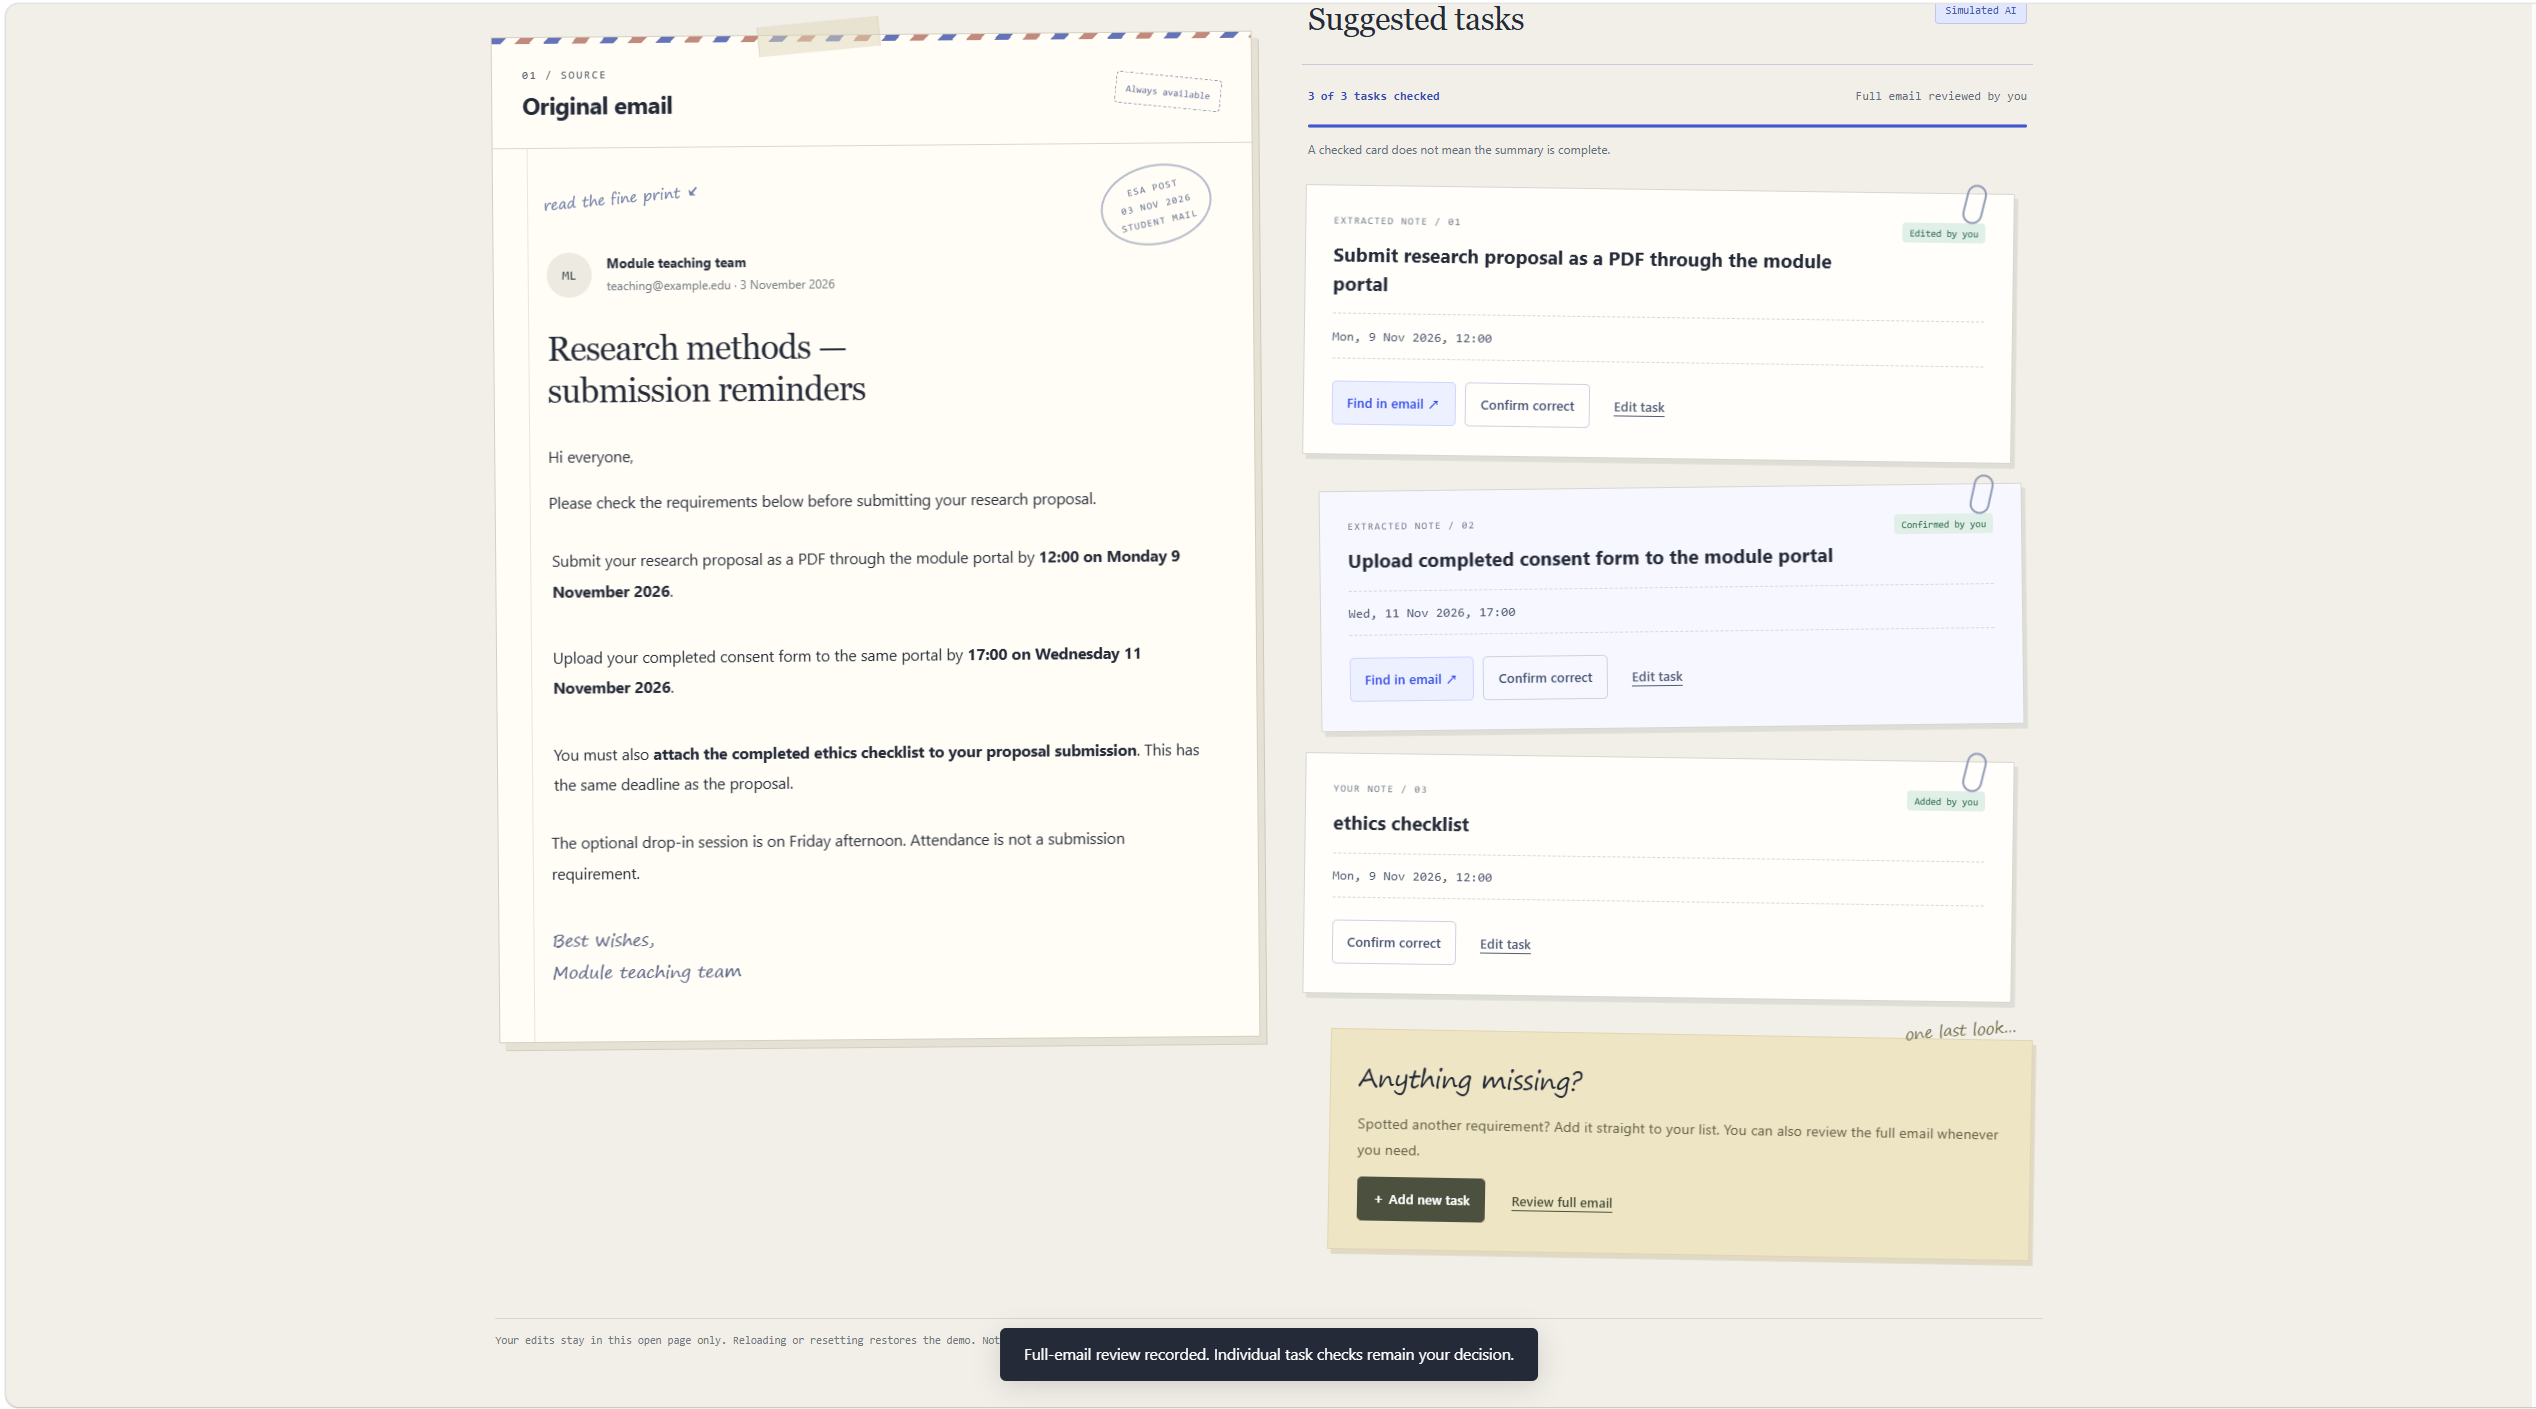
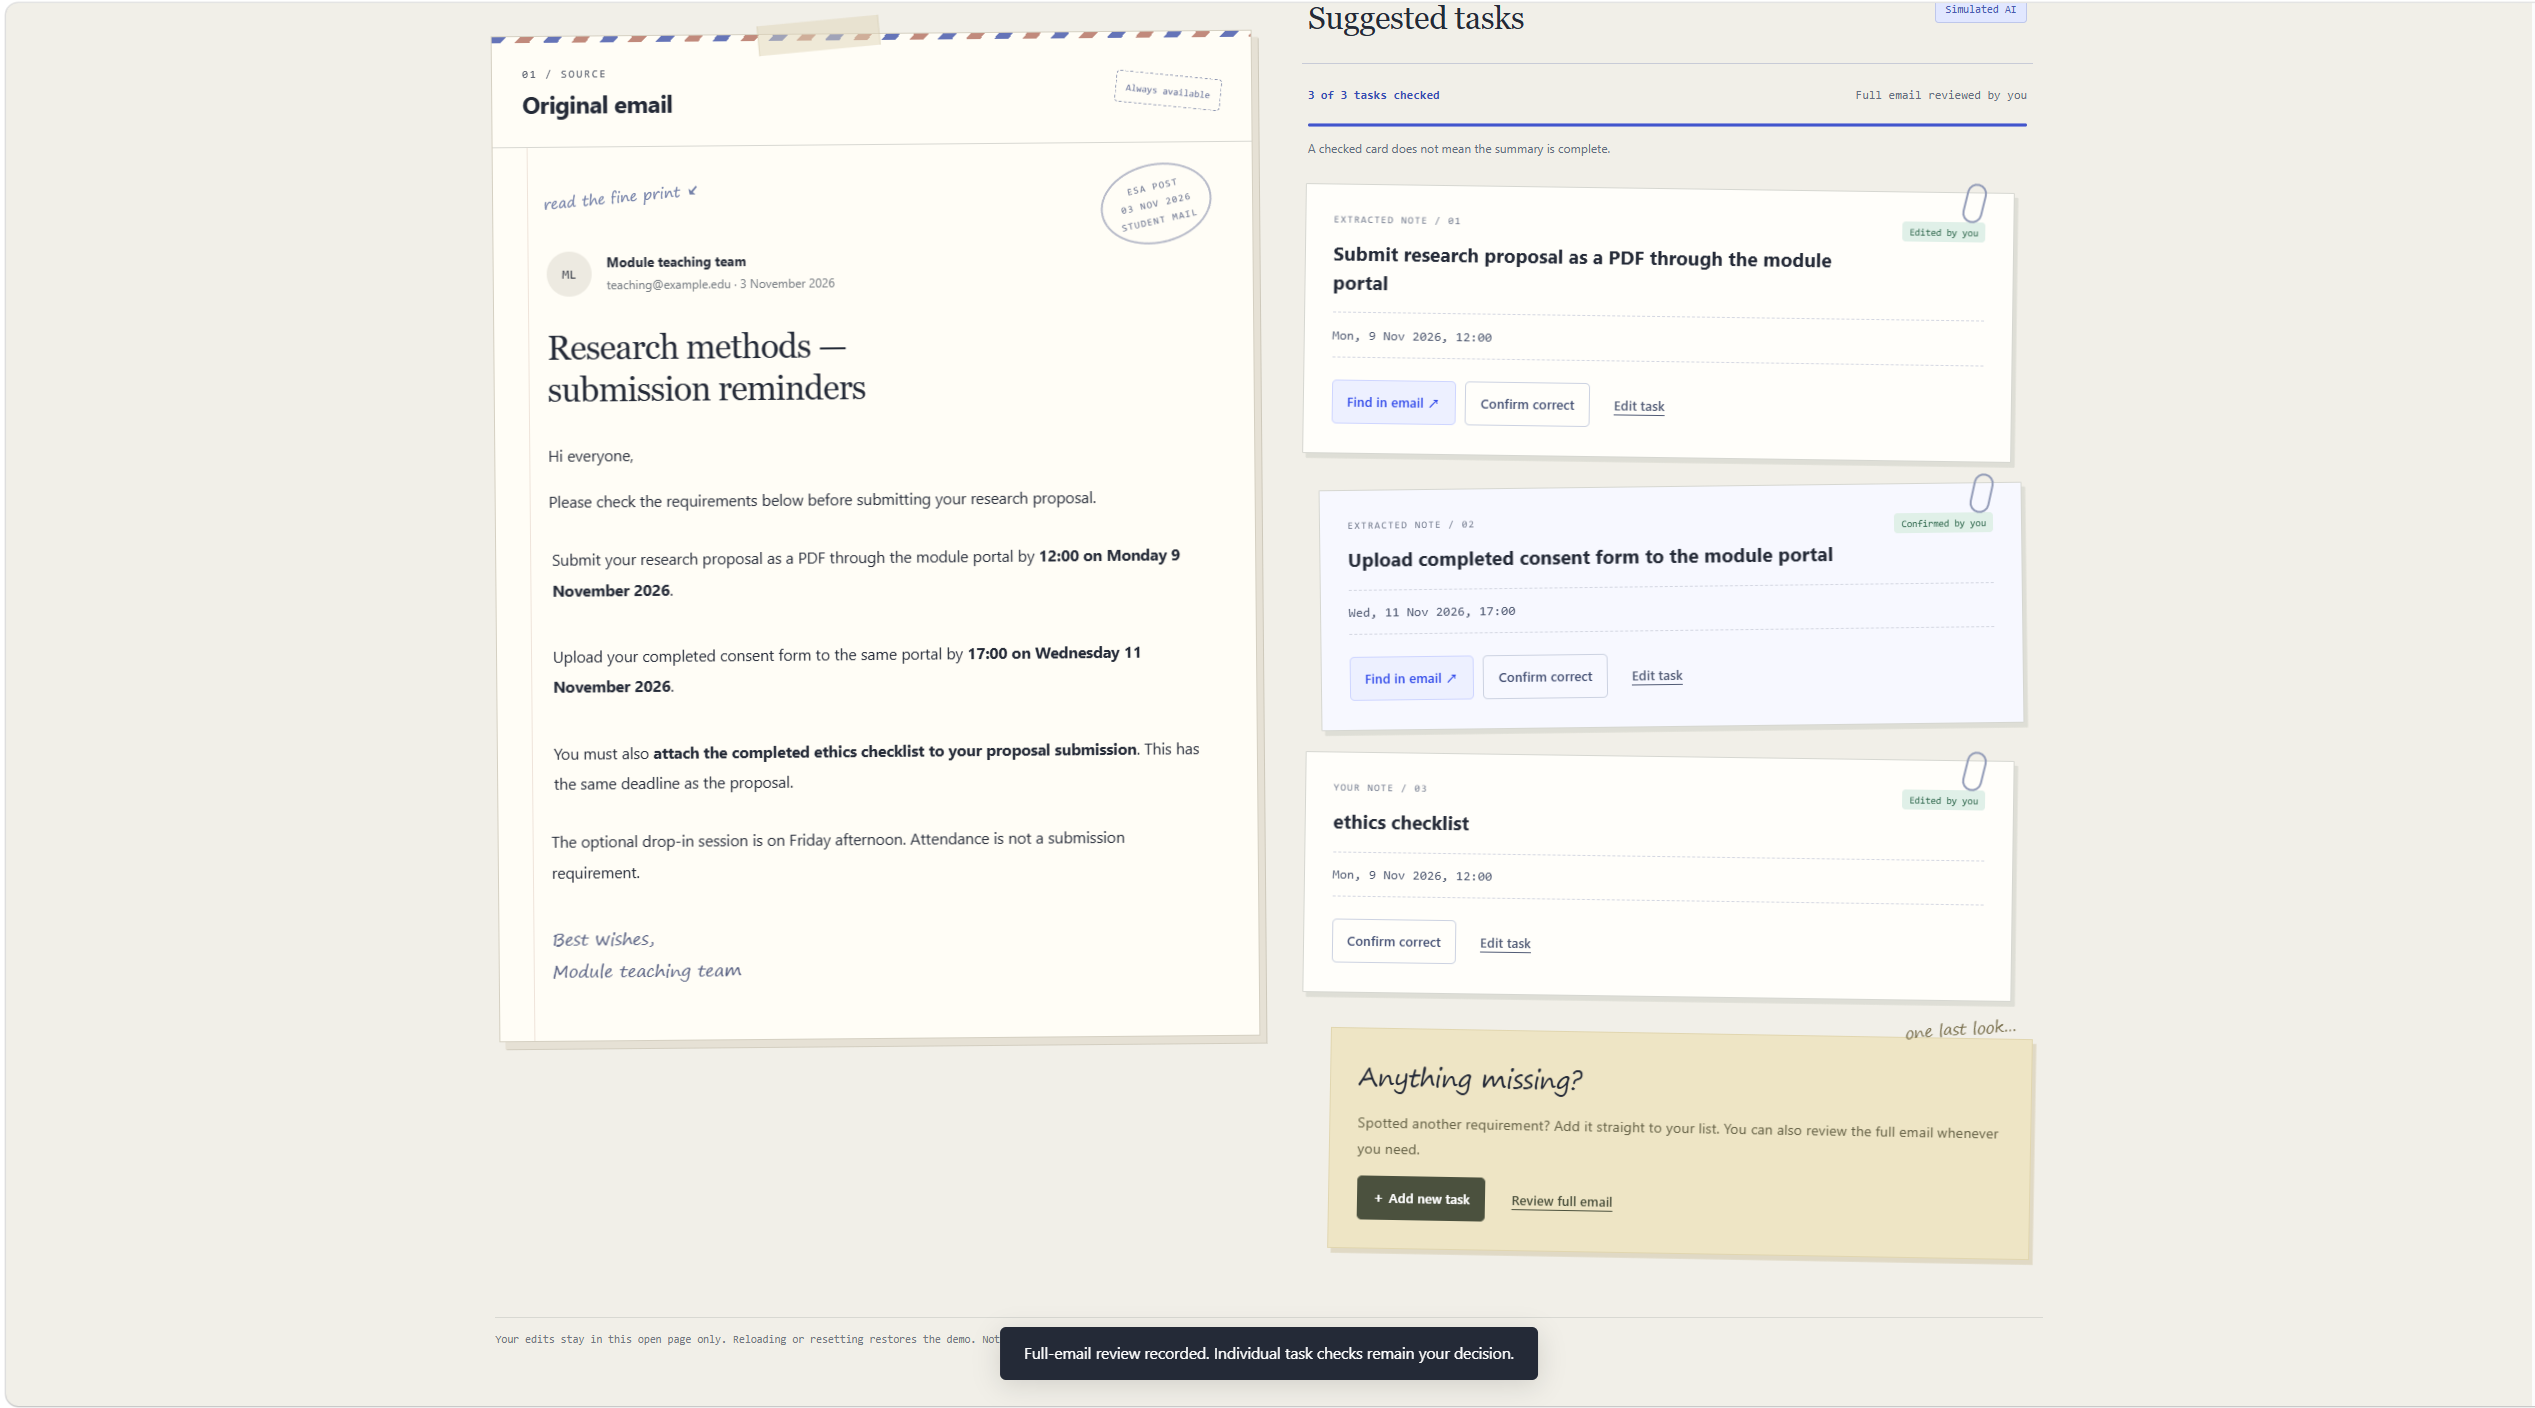
Replace Figure 4d and reconcile all current evidence descriptions

diff --git a/development-feedback.md b/development-feedback.md
@@ -1,20 +1,24 @@
 # ESA 学生试用反馈与修改记录
 
+## 图 4d 替换并解决状态差异
+
+学生提供完成复核后的新截图，替换 10-review-finished.png。图 4c 与图 4d 的 checklist 均显示 Edited by you；4d 同时显示 Full email reviewed by you、原有完成提示，并收起复核卡片。当前报告与清单中的连续性警示已移除；此前记录保留为修订历史。这些截图仅支持已展示的操作状态，不代表全面测试或自动遗漏检测。
+
 ## 图 4c 替换
 
-按学生要求用新截图替换 09-checklist-added.png。新图显示 Edited by you；报告图注已更新。图 4d 仍为 Added by you，因此暂不将两张图表述为连续状态转换。此前关于旧图 Confirmed by you 的记录保留为历史说明。
+按学生要求用新截图替换 09-checklist-added.png。新图显示 Edited by you，图注按此更新。随后学生再次补拍图 4d，当前两张图状态一致，相关问题已解决。
 
 ## 图 4 操作截图证据
 
-学生提供四张截图，展示人工全文复核、填写 ethics checklist 及 9 November 2026 12:00、第三张任务卡片，以及完成全文复核后指导卡片收起与原完成提示。第三张 checklist 显示 Confirmed by you，第四张显示 Added by you；两图不能作为未中断的状态转换证据。原图均保留，报告按实际状态标注，并建议补一张刚新增后尚未确认的 4c。未将这些演示写作遗漏检测或独立用户实验。
+学生提供四张截图，展示人工全文复核、填写 ethics checklist 及 9 November 2026 12:00、第三张任务卡片，以及完成全文复核后指导卡片收起与原完成提示。首次提交的后两张状态不一致，随后由学生补拍替换，当前均显示 Edited by you。旧图仅可从 Git 历史追溯，当前报告使用替换版本。未将这些演示写作遗漏检测或独立用户实验。
 
 ## 图 3 操作截图证据
 
-学生提供两张截图：第一张显示 consent form 来源高亮，卡片仍为 Needs checking，进度为 1 of 2；第二张显示 Confirmed by you，进度为 2 of 2，同时全文复核仍为未完成。两图展示单项确认与全文复核状态分离。原图归档为 05-consent-evidence.png 和 06-consent-confirmed.png，并加入报告；这是操作演示证据，不是独立用户实验。图 4 尚待提供。
+学生提供两张截图：第一张显示 consent form 来源高亮，卡片仍为 Needs checking，进度为 1 of 2；第二张显示 Confirmed by you，进度为 2 of 2，同时全文复核仍为未完成。两图展示单项确认与全文复核状态分离。原图归档为 05-consent-evidence.png 和 06-consent-confirmed.png，并加入报告；这是操作演示证据，不是独立用户实验。后续图 4 已补齐。
 
 ## 图 2 操作截图证据
 
-学生提供四张实际操作截图，按顺序显示：初始 proposal 卡片的 6 November 2026 12:00 错误日期；选中卡片和高亮原文的 9 November 2026 12:00；编辑表单中填写正确日期；保存后 Edited by you 和 1 of 2 tasks checked。原图复制到 assets/storyboards/01–04 文件并插入报告。这支持此条演示流程的可视证据，不等于独立用户实验、全面浏览器测试或性能评估。图 3 和图 4 尚待补齐。
+学生提供四张实际操作截图，按顺序显示：初始 proposal 卡片的 6 November 2026 12:00 错误日期；选中卡片和高亮原文的 9 November 2026 12:00；编辑表单中填写正确日期；保存后 Edited by you 和 1 of 2 tasks checked。原图复制到 assets/storyboards/01–04 文件并插入报告。这支持此条演示流程的可视证据，不等于独立用户实验、全面浏览器测试或性能评估。后续图 3 和图 4 已补齐。
 
 ## 顶部空间调整
 

diff --git a/screenshot-checklist.md b/screenshot-checklist.md
@@ -1,8 +1,8 @@
 # ESA 操作截图清单 Interaction screenshot checklist
 
-Status: all ten student-supplied screenshots are stored in `assets/storyboards/` and embedded in the draft. The replacement panel 4c shows Edited by you, while panel 4d shows Added by you. A continuity check remains: capture 4c immediately after adding, or replace 4d with completion of the same edited-task run. A video is not required.
+Status: all ten student-supplied screenshots are stored in `assets/storyboards/` and embedded in the draft. Replacement panels 4c and 4d both show Edited by you; the earlier checklist-state inconsistency is resolved. A video is not required.
 
-状态：十张学生截图已全部收到、归档并插入草稿。替换后的 4c 为 Edited by you，4d 为 Added by you，仍需核对连续性。可截取刚新增后的 4c，或在这次编辑后直接完成复核并替换 4d。无需视频。
+状态：十张学生截图已全部收到、归档并插入草稿。替换后的 4c 和 4d 均为 Edited by you，先前 checklist 状态不一致的问题已解决。无需视频。
 
 ## 图 2 纠正错误日期 Figure 2 Correct an inaccurate deadline
 
@@ -36,14 +36,14 @@ Caption: Confirmation records the student's judgement, not automated verificatio
 
 ## 图 4 补充遗漏事项 Figure 4 Add an omitted requirement
 
-Received / 已收到：四张截图已保存，4c 已按学生要求替换为新图。新图包含编辑操作，与原计划中“刚新增”的状态不同；报告已据实标注，没有修改截图内容。
+Complete / 已完成：四张截图已保存，4c 和 4d 已按学生要求替换。最终分镜展示手动复核、新增表单、编辑后的新增任务和全文复核完成状态；报告按截图实际标签标注，没有修改截图内容。
 
 7. `07-manual-review.png`: select Review full email. Include the ethics-checklist sentence and manual review guidance. The system does not flag this specific omission.
    中文：点击 Review full email，截取 ethics checklist 原文要求和人工复核引导。系统不会自动标记这项遗漏。
 8. `08-add-checklist.png`: select Add new task in Anything missing?; show the form with the checklist action and 9 November 2026 at 12:00 entered.
    中文：点击 Anything missing? 中的 Add new task；表单填写附上 ethics checklist 的要求，日期为 2026 年 11 月 9 日 12:00。
-9. `09-checklist-added.png`: save; show the new Added by you card.
-   中文：保存后，截取新生成的 Added by you 卡片。
+9. `09-checklist-added.png`: the supplied replacement shows the manually added checklist after editing, labelled Edited by you.
+   中文：当前替换图展示手动新增任务编辑保存后的状态，标签为 Edited by you。
 10. `10-review-finished.png`: select Finish full-email review. Capture the existing completion message and Full email reviewed by you status; the guidance card should be hidden. Reopen review first if necessary.
     中文：点击 Finish full-email review，截取原有完成提示和 Full email reviewed by you 状态；复核卡片应已收起。如卡片已关闭，先重新打开。
 

diff --git a/README.md b/README.md
@@ -1,6 +1,6 @@
 # ESA Email Summary Assistant
 
-Prose word count: 913 (whitespace count excluding headings, this line, and list markers).
+Prose word count: 907 (whitespace count excluding headings, this line, and list markers).
 
 A local interactive prototype for checking simulated AI summaries of university emails. The project continues the A1 investigation into source links, student verification, and the separate problem of omitted requirements.
 
@@ -53,8 +53,8 @@ Codex generated the initial HTML, CSS, JavaScript, and documentation from the st
 
 ## Submission
 
-All ten student-supplied screenshots are available in `assets/storyboards/` and embedded in the report draft. They show deadline correction, consent-form confirmation and manual addition followed by full-email review. Figure 4 has a documented continuity difference: the checklist is Edited by you in panel 4c and Added by you in 4d. These images document demonstration states, not an independent user study or complete browser test.
+All ten student-supplied screenshots are available in `assets/storyboards/` and embedded in the report draft. They show deadline correction, consent-form confirmation and manual addition followed by full-email review. Replacement panels 4c and 4d retain the same Edited by you checklist status, resolving the earlier inconsistency. These images document demonstration states, not an independent user study or complete browser test.
 
 Current prototype draft snapshot: [db98b8e](https://github.com/dawsen1208/esa-email-summary-assistant/commit/db98b8ee3a69b31ad9111f97e773b48f627aabca). This is an uploaded development snapshot, not the final submission.
 
-Repository: https://github.com/dawsen1208/esa-email-summary-assistant. Final submitted commit remains to be selected after evidence and reference checks. The [English report draft](A2-report-draft.md) includes the architecture diagram and all three illustrated examples. See the [bilingual screenshot checklist](screenshot-checklist.md) for the Figure 4 continuity check. Final reference checks, evidence presentation and the final submission identifier remain outstanding. Local course PDFs, extracted lecture text and private authoring notes are excluded from this repository. Use fictional data only in this demonstration.
+Repository: https://github.com/dawsen1208/esa-email-summary-assistant. Final submitted commit remains to be selected after evidence and reference checks. The [English report draft](A2-report-draft.md) includes the architecture diagram and all three illustrated examples. See the [bilingual screenshot checklist](screenshot-checklist.md) for the completed capture record. Final reference checks, evidence presentation and the final submission identifier remain outstanding. Local course PDFs, extracted lecture text and private authoring notes are excluded from this repository. Use fictional data only in this demonstration.

diff --git a/A2-report-draft.md b/A2-report-draft.md
@@ -12,7 +12,7 @@ Development record: https://github.com/dawsen1208/esa-email-summary-assistant/bl
 
 Current prototype draft snapshot: https://github.com/dawsen1208/esa-email-summary-assistant/commit/db98b8ee3a69b31ad9111f97e773b48f627aabca
 
-Final submitted commit or release: pending completion of screenshots and final checks.
+Final submitted commit or release: pending final evidence presentation and reference checks.
 
 ## Abstract
 
@@ -135,9 +135,9 @@ Confirmation records the student's judgement.
 
 **4d Full-email review acknowledged**
 
-![Figure 4d Completion message and Full email reviewed by you; guidance hidden; checklist labelled Added by you](assets/storyboards/10-review-finished.png)
+![Figure 4d Completion message and Full email reviewed by you; guidance hidden; checklist retains Edited by you](assets/storyboards/10-review-finished.png)
 
-Panels 4c and 4d show different checklist states: Edited by you and Added by you. They are not an uninterrupted transition.
+The checklist retains Edited by you as the student completes full-email review.
 
 The student finds the omission; ESA records the addition and acknowledgement.
 
